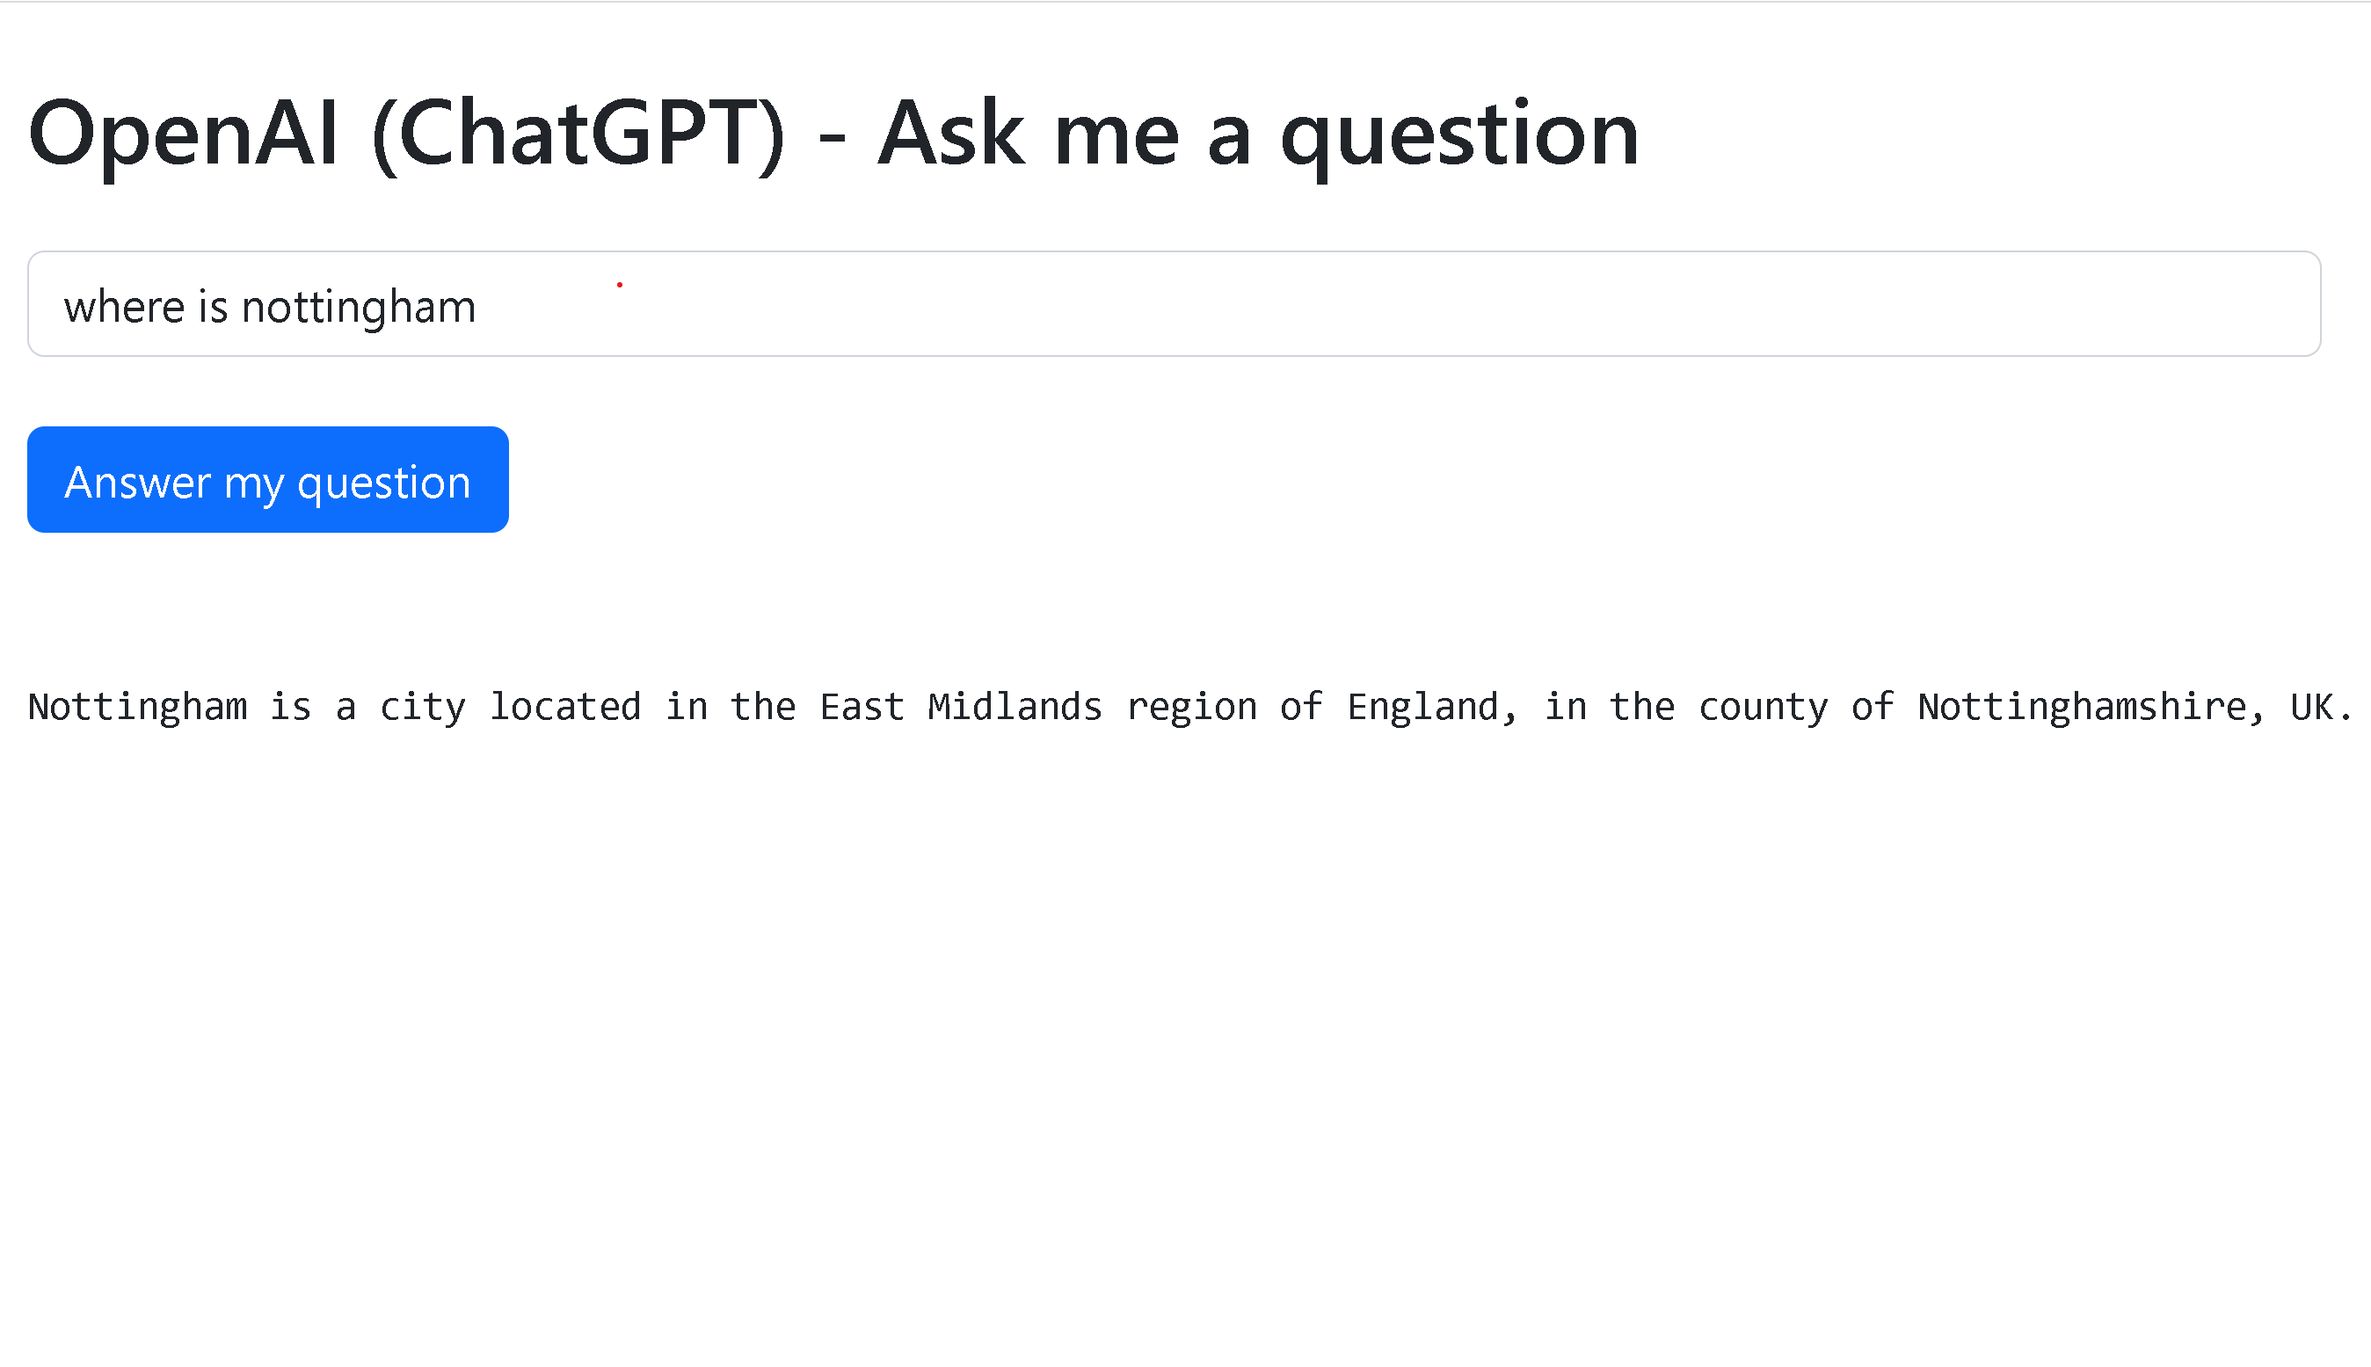
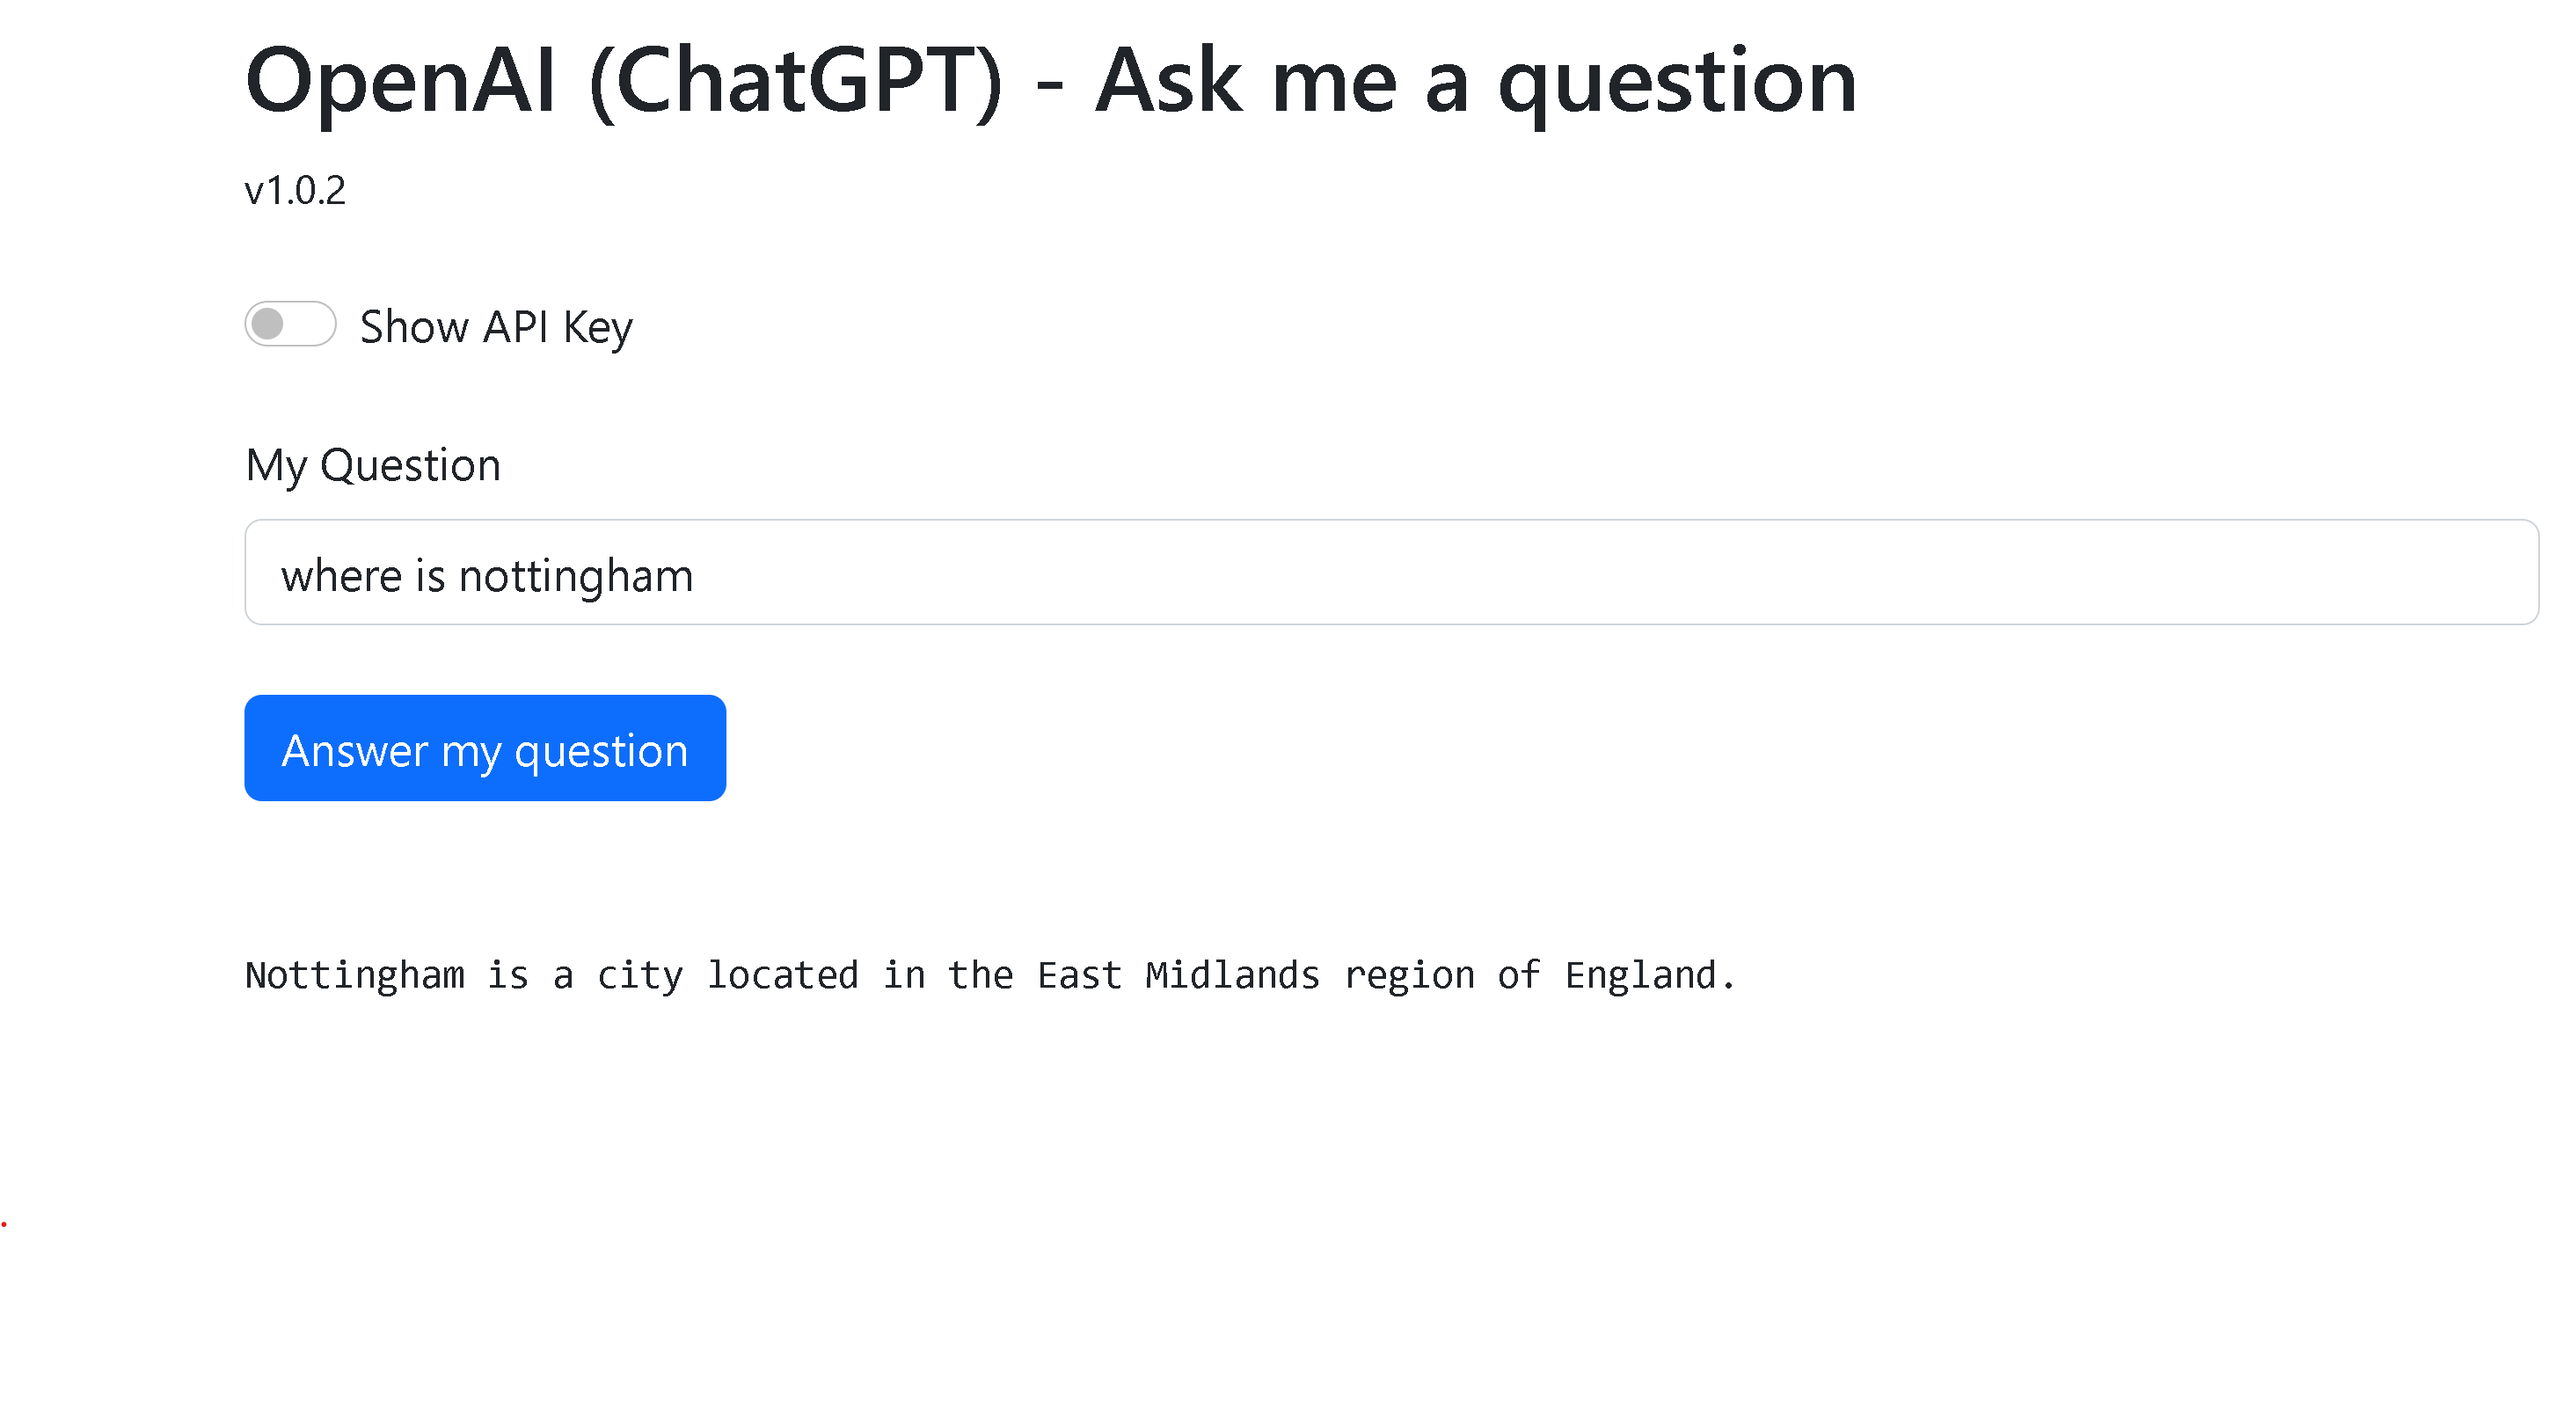
Several enhancements

diff --git a/src/App.tsx b/src/App.tsx
@@ -6,14 +6,22 @@ import { Button, Form } from 'react-bootstrap'
 function App() {
 
   const model = "gpt-3.5-turbo";
-  const API_KEY = process.env.REACT_APP_API_KEY;
-
+ 
+  const storageApiKey = localStorage.getItem("apiKey") || '';
+  
   const [input, setInput] = useState("");
+  const [apiKey, setApiKey] = useState(storageApiKey);
   const [completedSentence, setCompletedSentence] = useState("");
   const [loading, setLoading] = useState(false);
+  const [showApiKey, setShowApiKey] = useState(false);
+
+  const handleApiKeyChange = (event : any) => {
+    setApiKey(event.target.value);
+    localStorage.setItem("apiKey", event.target.value);
+  };
 
   async function handleSubmit() {
-      if (!API_KEY) {
+      if (!apiKey) {
         setCompletedSentence("API KEY NOT SET!");
       }
       else {
@@ -22,7 +30,8 @@ function App() {
           setCompletedSentence(completedSentence);
         }
         catch (error : any) {
-        setCompletedSentence(error.message);
+          setLoading(false);
+          setCompletedSentence(error.message);
       }
     }
   }
@@ -43,7 +52,7 @@ function App() {
       {
         headers: {
           "Content-Type": "application/json",
-          Authorization: `Bearer ${API_KEY}`,
+          Authorization: `Bearer ${apiKey}`,
         },
       }
     );
@@ -59,16 +68,40 @@ function App() {
     }
   }
 
+  const onShowApiKey = () => {
+    setShowApiKey(!showApiKey);
+  }
+  
   return (
     <div className="ms-4">
-      <h2 className="mt-4 mb-4">OpenAI (ChatGPT) - Ask me a question</h2>
-      <Form.Control
-          style={{ width: '1000px' }}
-          type="text"
-          value={input}
-          onChange={(event) => setInput(event.target.value)}
-          onKeyDown={onKeyDown}
-       />     
+        <h2 className="mt-2">OpenAI (ChatGPT) - Ask me a question</h2>
+        <p className="mb-4"><small>v1.0.2</small></p>
+        <div className="form-check form-switch mt-2">
+            <input className="form-check-input" type="checkbox" onClick={onShowApiKey} />
+            <label className="form-check-label">Show API Key</label>
+        </div>
+        {showApiKey && (
+          <div className="form-group">
+            <input className="form-control"
+                      style={{ width: '1000px' }}
+                      id="apiKeyInput"
+                      type="text"
+                      value={apiKey}
+                      onChange={handleApiKeyChange} />
+            <small className="form-text text-muted">API Key is only stored in your browser and is not visible by anyone else</small>
+          </div>
+        )}
+        <div className="form-group mt-4">
+          <label className="mb-2">My Question</label>
+          <Form.Control
+              style={{ width: '1000px' }}
+              type="text"
+              value={input}
+              onChange={(event) => setInput(event.target.value)}
+              onKeyDown={onKeyDown}
+          /> 
+        </div>
+   
       <Button className="mt-4 mb-2" onClick={handleSubmit}>Answer my question</Button>
       <pre style={{ whiteSpace: 'pre-wrap' }}>{completedSentence}</pre>
 

diff --git a/public/index.html b/public/index.html
@@ -24,7 +24,7 @@
       work correctly both with client-side routing and a non-root public URL.
       Learn how to configure a non-root public URL by running `npm run build`.
     -->
-    <title>React App</title>
+    <title>React OpenAI</title>
   </head>
   <body>
     <noscript>You need to enable JavaScript to run this app.</noscript>
